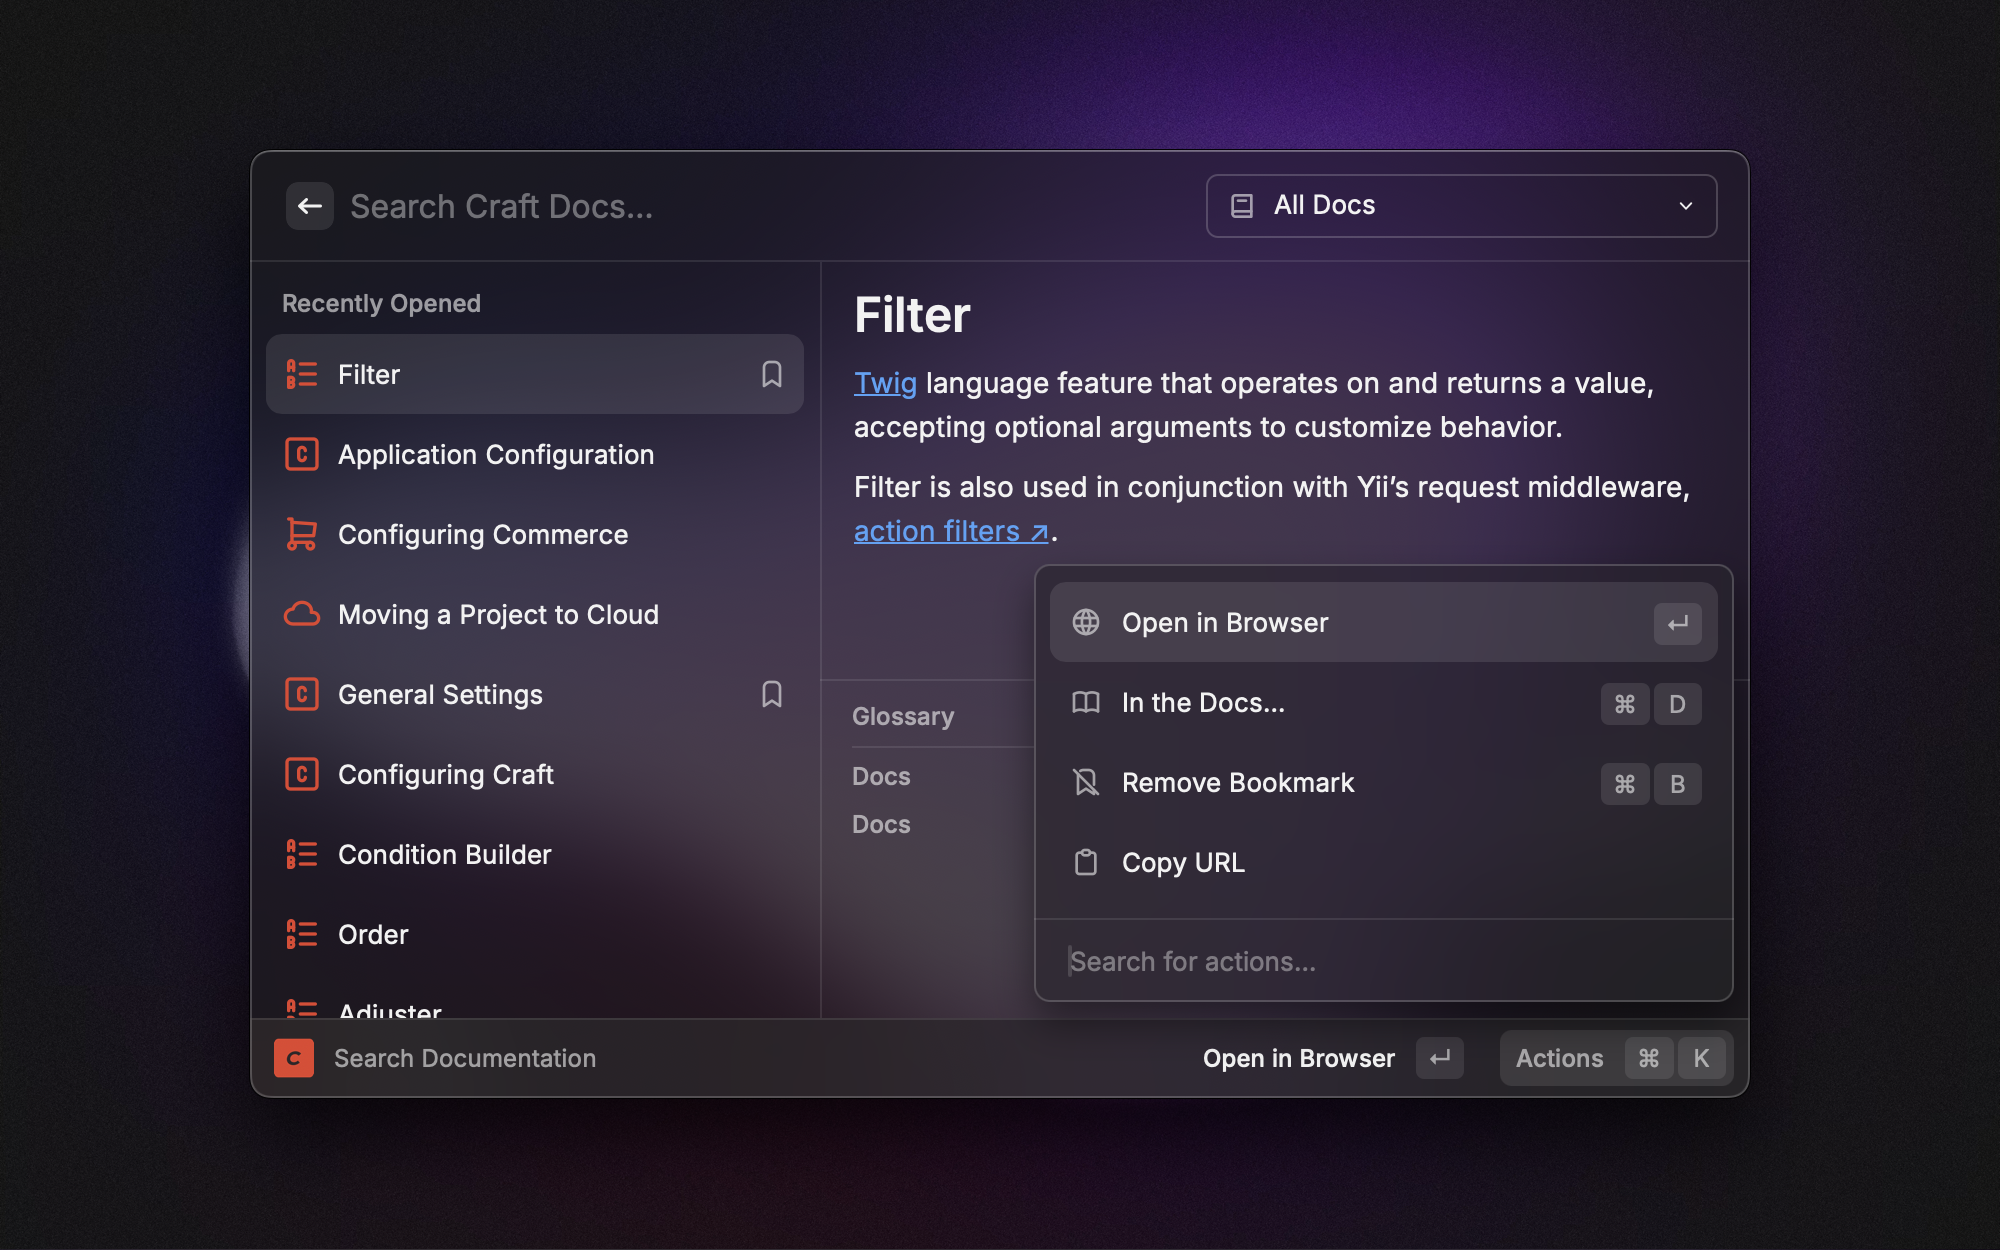
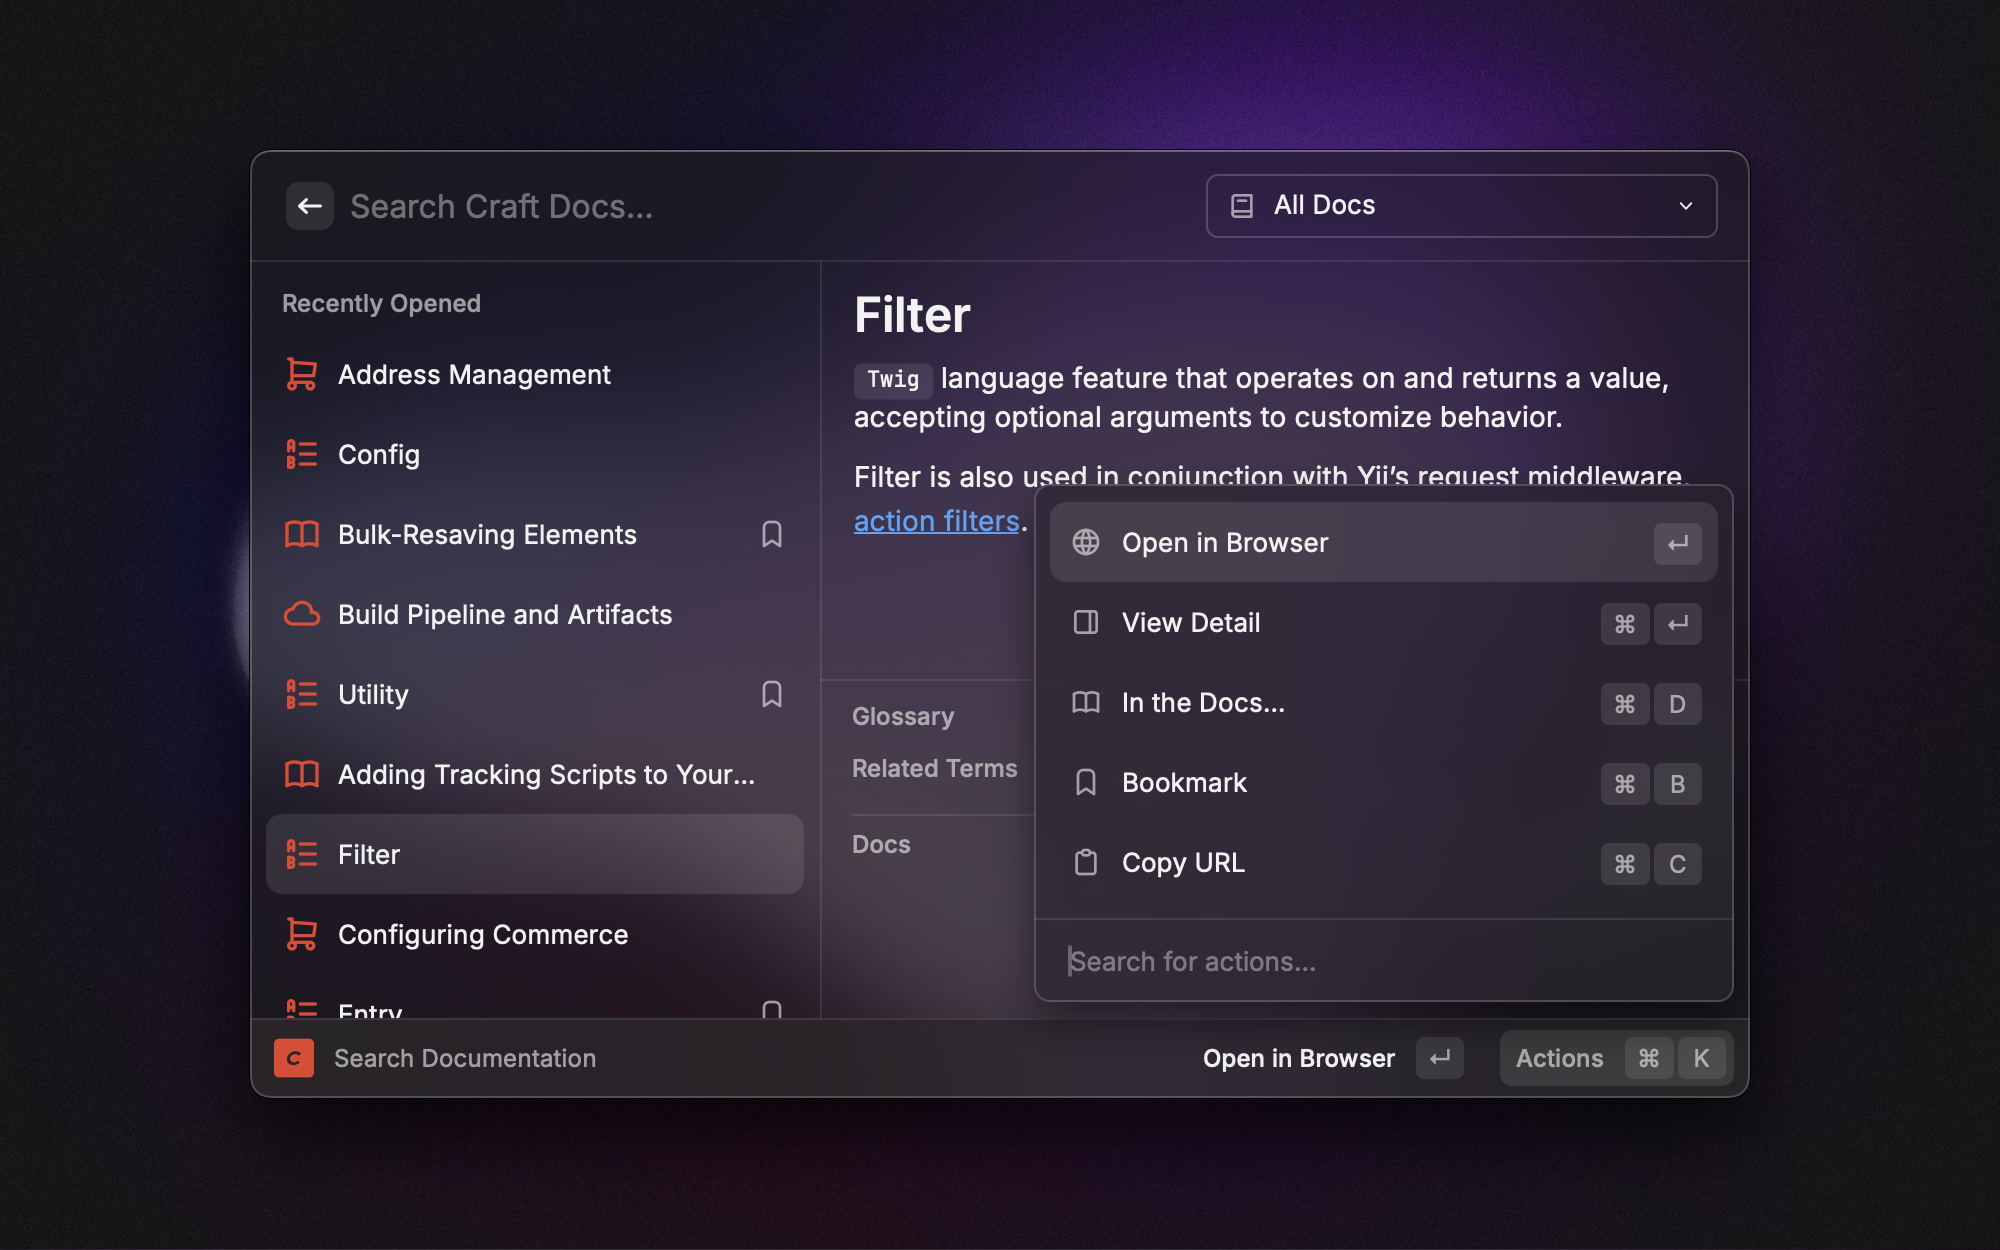
New Screenshots + Link display fix

diff --git a/src/summary-to-markdown.tsx b/src/summary-to-markdown.tsx
@@ -24,7 +24,7 @@ export function summaryHtmlToMarkdown(html: string): string {
     const cleanText = stripAllTags(inner).trim();
     if (!cleanText) return "";
     if (!href) return cleanText;
-    return href.startsWith("raycast://") ? `[${cleanText}](${href})` : `[${cleanText} <sup>↗</sup>](${href})`;
+    return `[${cleanText}](${href})`;
   });
 
   s = stripAllTags(s)
